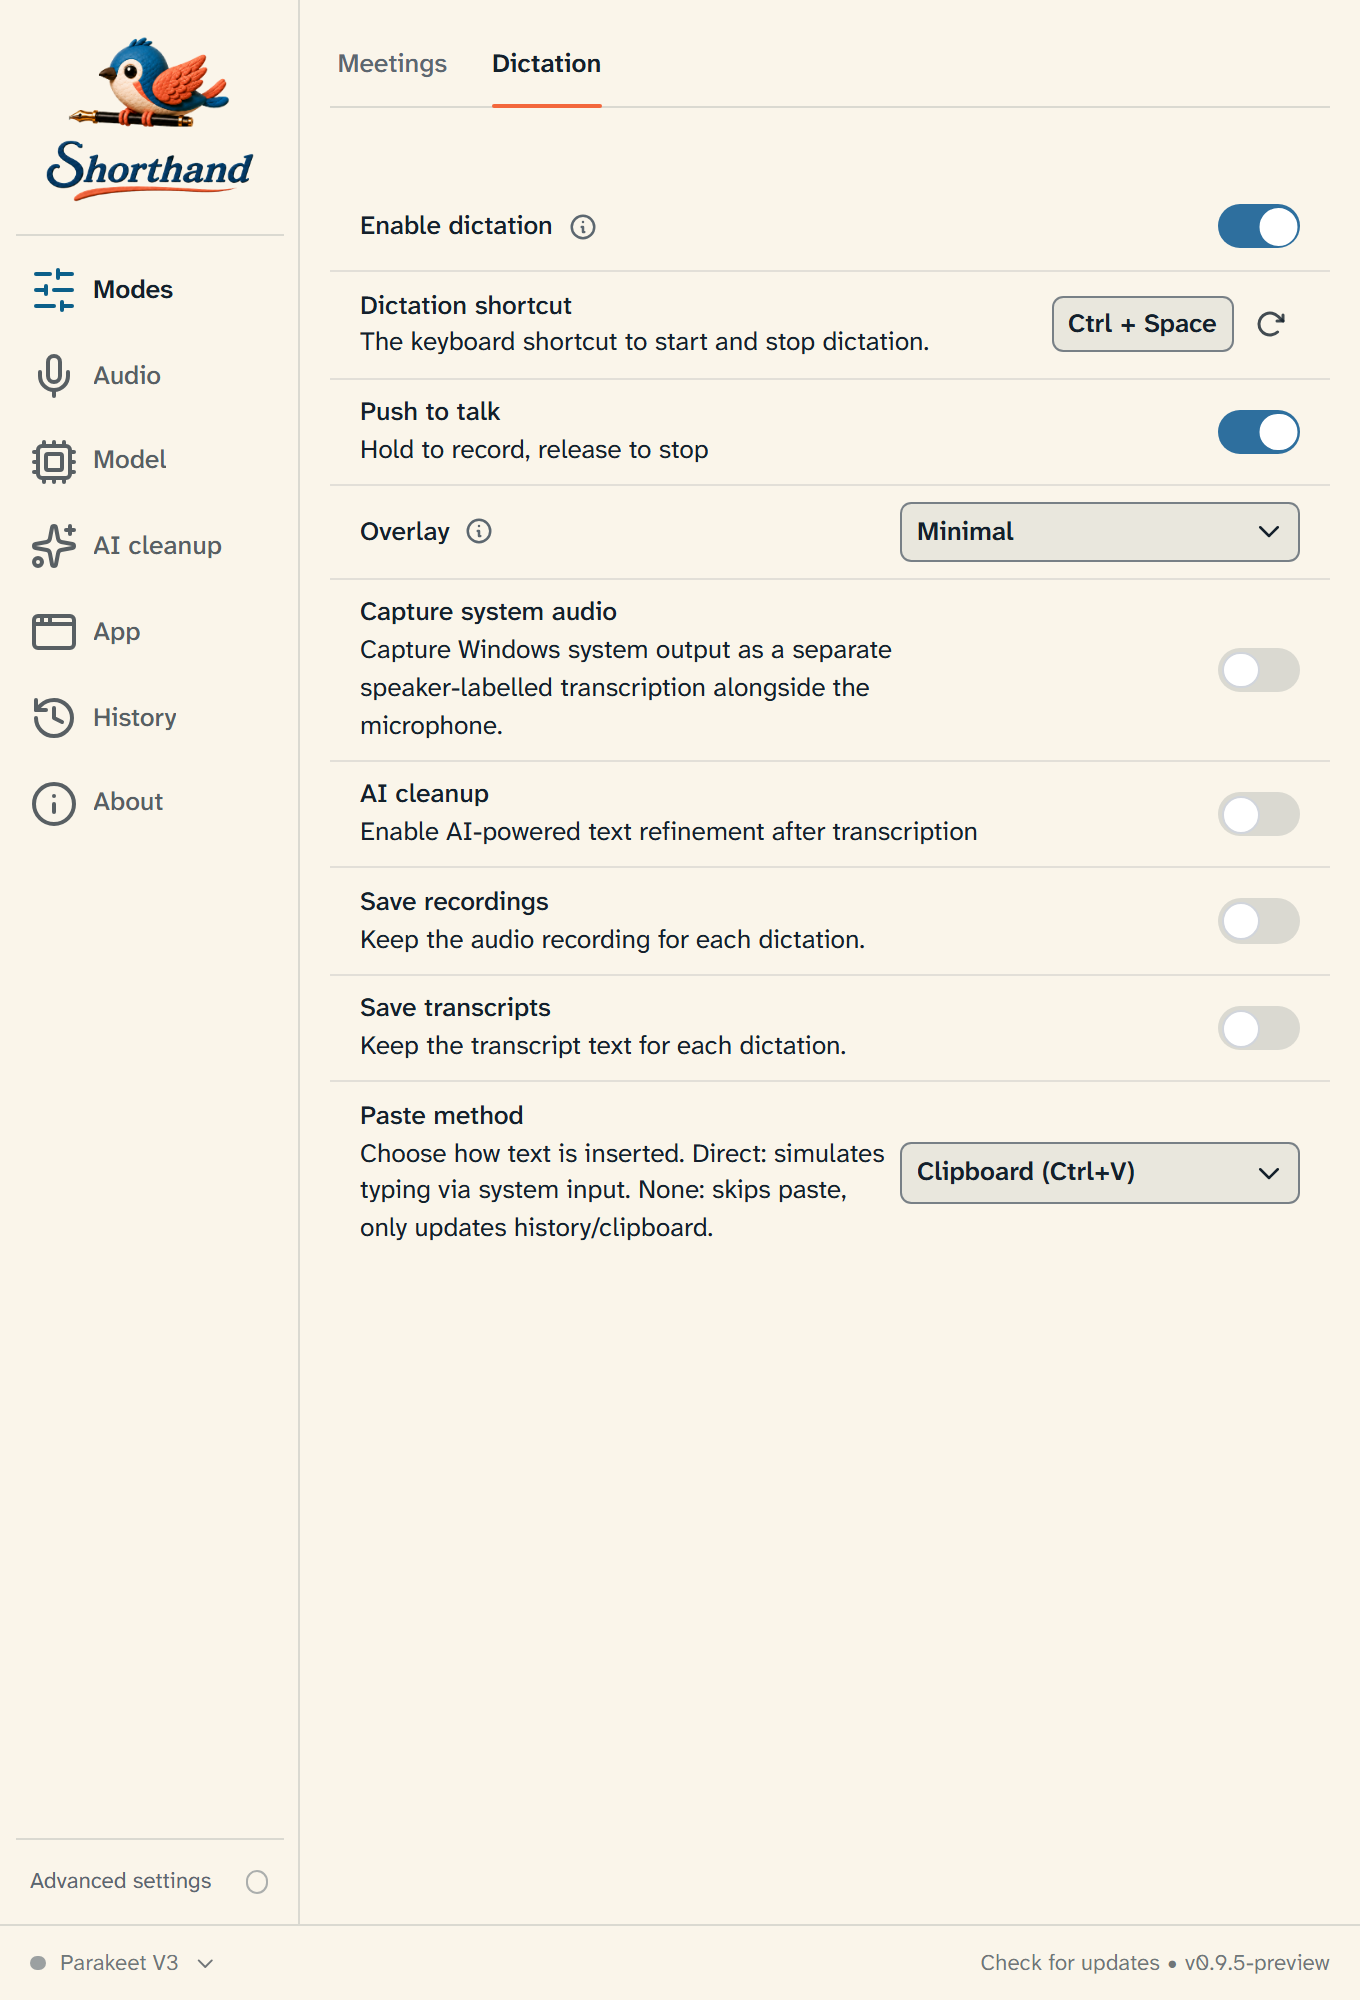
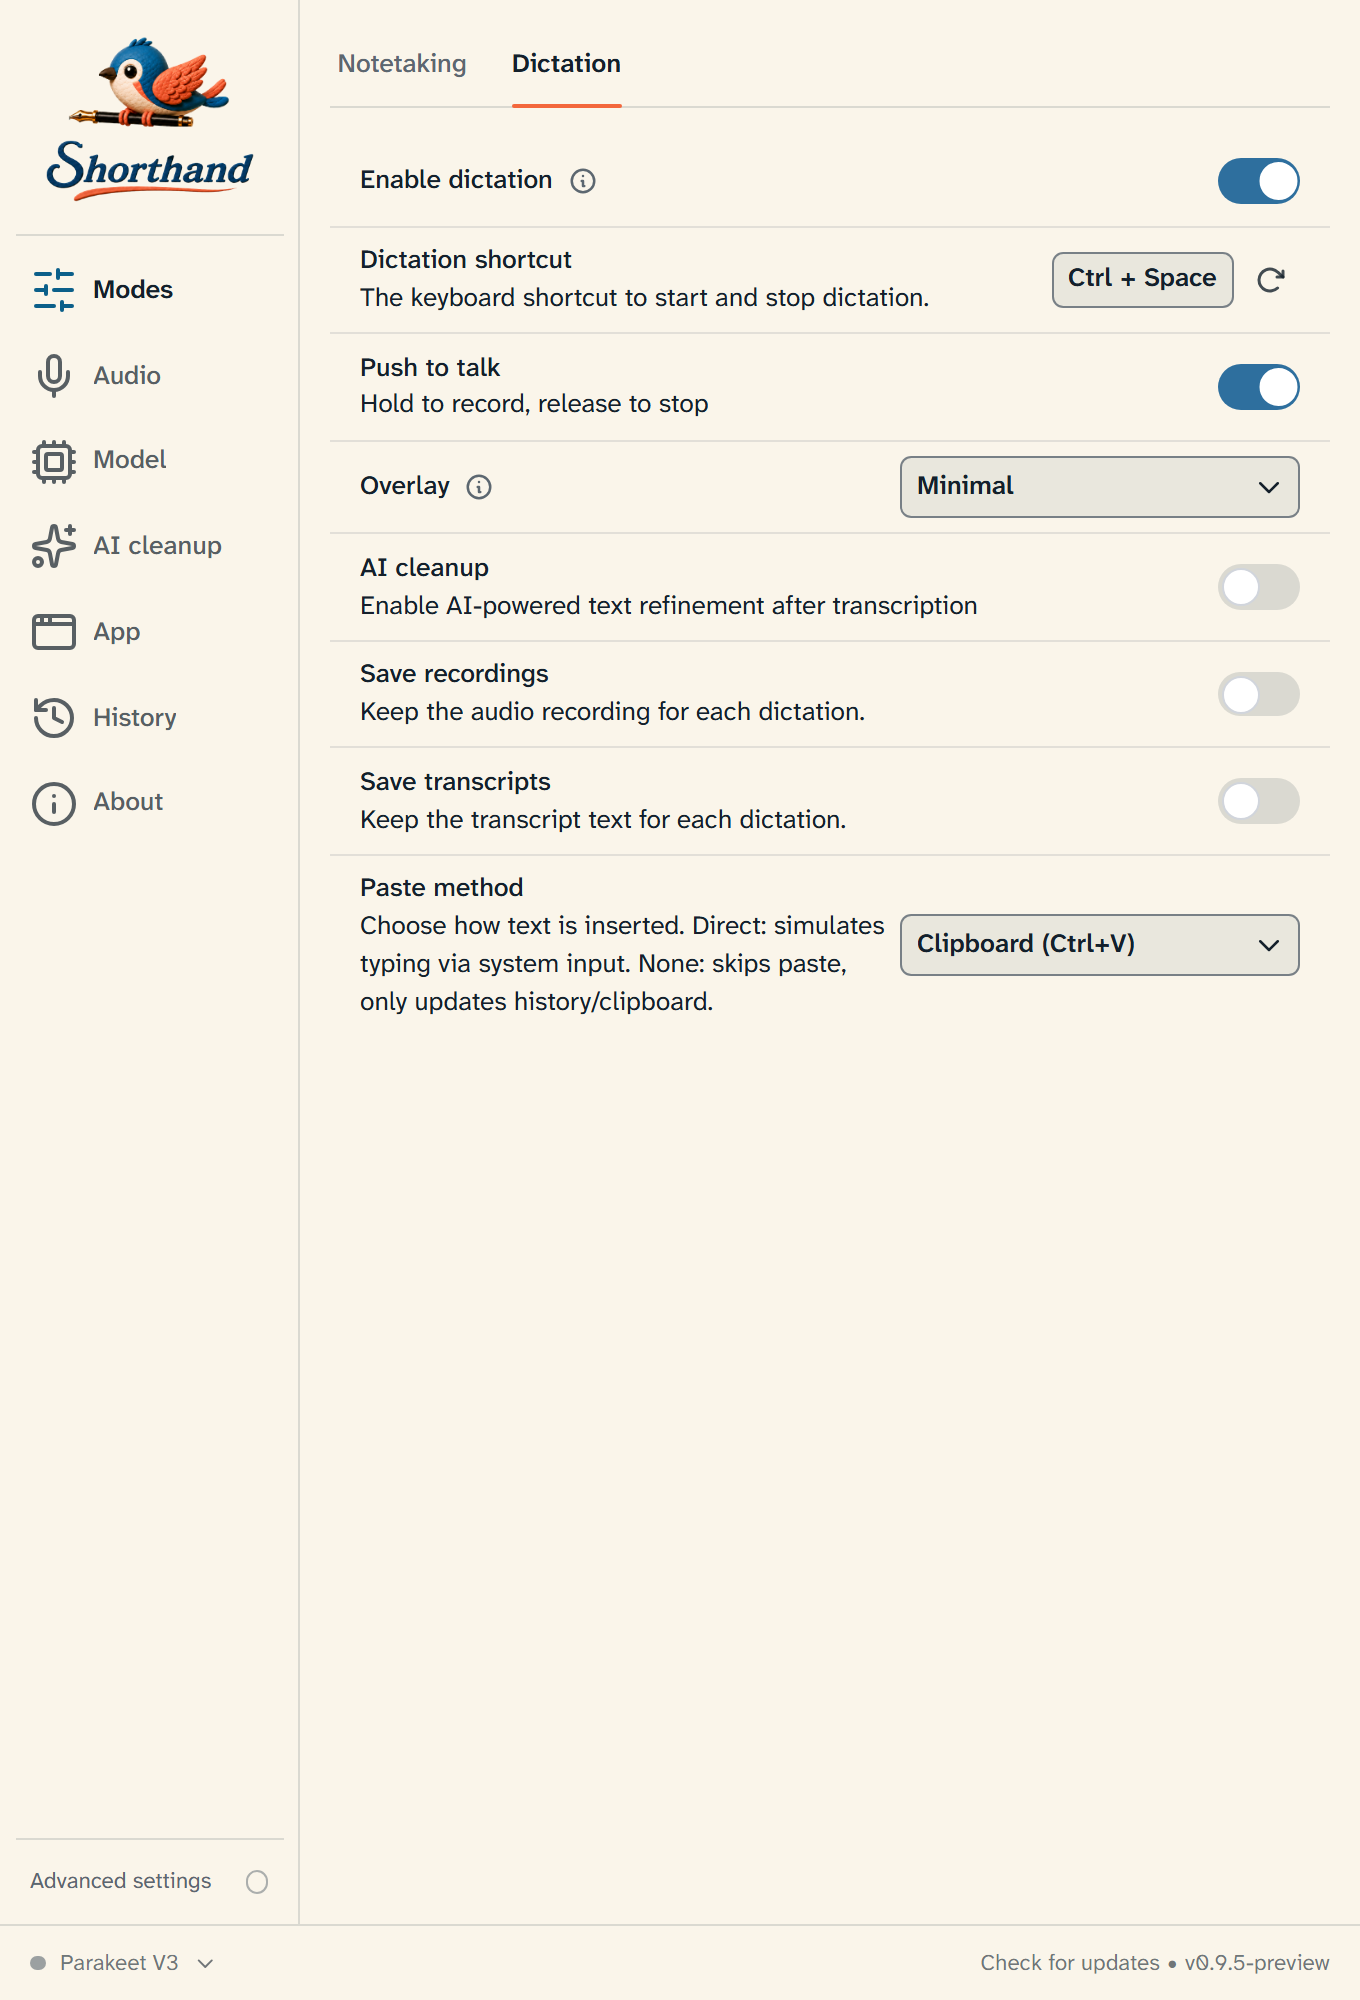
fix(settings): tell the two Modes tab levels apart, and cut the gap between them
Modes nests a second tablist (Meetings / Assisted notes) inside the
Notetaking panel of the first one, and drew both with the same component:
same size, same weight, same coral underline, same full-bleed hairline, one
directly beneath the other. Two controls that look identical and mean
different things is a defect however good each one looks alone.

The nested bar is now a segmented control — a filled track with the active
item raised out of it as a chip — rather than a smaller copy of its own
parent. Nesting an underline inside an underline asks the user to read a size
difference; a track and a chip cannot be mistaken for a row of underlined
tabs. It is deliberately not coral: brand/marks.css reserves that mark for
the active tab and nothing else, and putting it on both levels would have
restored the ambiguity by another route.

It is a `variant` on the existing Tabs rather than a new component or an
off-the-shelf one, so there stays exactly one WAI-ARIA keyboard
implementation to get right, and package.json stays mergeable against
upstream.

The whitespace had a single cause: `space-y-8` on the container. A TabPanel
is a *sibling* of its tab bar, not a child, so that 32px landed on top of the
panel's own pt-2 — the gap TabPanel's comment describes as 8px was 40px on
screen, and the Notetaking tab paid it twice, once above the nested bar and
once below. TabPanel now owns the whole gap at pt-4 and the one group that
[…]

diff --git a/src/shorthand/ui/Tabs.tsx b/src/shorthand/ui/Tabs.tsx
@@ -5,16 +5,24 @@ export interface TabSpec<T extends string> {
   label: string;
 }
 
+/**
+ * How the bar is drawn. The two variants are deliberately unlike each other,
+ * because they are used one inside the other — see the component doc below.
+ */
+export type TabsVariant = "underline" | "segmented";
+
 interface TabsProps<T extends string> {
   tabs: readonly TabSpec<T>[];
   active: T;
   onChange: (id: T) => void;
   /** Labels the tablist for screen readers. */
   label: string;
+  /** Defaults to `underline`, the top-level bar. */
+  variant?: TabsVariant;
 }
 
 /**
- * The Transcription/Dictation tab bar.
+ * The settings tab bar, in two variants.
  *
  * Implements the WAI-ARIA tabs pattern properly — roles, `aria-selected`,
  * `aria-controls`, roving `tabIndex`, and Left/Right/Home/End. Upstream's
@@ -22,13 +30,42 @@ interface TabsProps<T extends string> {
  * keyboard handler, and copying that here would have added a second
  * unreachable-by-keyboard navigation control rather than one.
  *
+ * Both variants share every one of those behaviours; they differ only in how
+ * they are painted. That is the point of a variant rather than a second
+ * component: there is one keyboard implementation to get right, not two.
+ *
+ * ## `underline` — the top-level bar
+ *
  * The active tab carries a plain coral underline (`sh-tab-indicator`, see
  * brand/marks.css). Coral keeps the same meaning as before — the tab you're
  * looking at is the live one — without the hand-drawn highlighter marquee that
  * previously drew it; that motif read as visual noise on a plain tab bar.
  *
- * The indicator is never the only signal. `aria-selected` carries the state
- * programmatically and the label goes semibold, so selection survives
+ * ## `segmented` — a bar nested inside a panel of the one above
+ *
+ * `ModesSettings` nests a second tablist inside the Notetaking panel. Drawn in
+ * the `underline` variant it was indistinguishable from its own parent: same
+ * size, same weight, same coral rule, same full-bleed hairline, one directly
+ * beneath the other. Two controls that look identical and mean different
+ * things is the defect this variant exists to fix.
+ *
+ * So the nested bar is a different *kind* of control rather than a smaller
+ * copy of the same one — the conventional segmented control: a filled track
+ * with the active item raised out of it as a chip. Nesting an underline inside
+ * an underline asks the user to read a size difference; a track and a chip
+ * cannot be mistaken for a row of underlined tabs at any size.
+ *
+ * It is deliberately not coral. brand/marks.css states the rule — one meaning,
+ * one motif; `.sh-tab-indicator` marks the active tab and nothing else — and
+ * putting the same mark on both levels would have restored the ambiguity by a
+ * different route. The chip is drawn in `--color-background`, so the active
+ * segment reads as the page showing through the track. That works in both
+ * themes without a second token: in light the chip is lighter than its track,
+ * in dark it is darker, and either way it is the surface the content below is
+ * already on.
+ *
+ * In neither variant is the paint the only signal. `aria-selected` carries the
+ * state programmatically and the label goes semibold, so selection survives
  * greyscale, a screen reader, and `prefers-reduced-motion`.
  */
 export function Tabs<T extends string>({
@@ -36,6 +73,7 @@ export function Tabs<T extends string>({
   active,
   onChange,
   label,
+  variant = "underline",
 }: TabsProps<T>) {
   const refs = useRef<Record<string, HTMLButtonElement | null>>({});
 
@@ -71,12 +109,69 @@ export function Tabs<T extends string>({
     }
   };
 
+  const segmented = variant === "segmented";
+
+  // `w-fit`, because the track has to hug its labels: stretched to the width of
+  // the pane the fill stops reading as a control and starts reading as a
+  // banner. It stays a block-level flex row rather than becoming `inline-flex`,
+  // so it does not pick up the inline formatting context's baseline alignment
+  // and whitespace.
+  //
+  // The track's `/10` is load-bearing for contrast, not taste. The inactive
+  // labels are `--color-mid-gray` sitting *on* this fill, and mid-gray on the
+  // page clears AA at 5.33:1 with little to spare; at `/10` the labels are
+  // still at 4.74:1, and around `/12` they fall through 4.5:1. Darken the track
+  // and you have to stop using mid-gray for the labels.
+  const tablistClass = segmented
+    ? "flex w-fit items-center gap-1 rounded-lg bg-mid-gray/10 p-1"
+    : "flex items-center gap-6 border-b border-mid-gray/20 px-1";
+
+  // Focus is the one place the two variants must not diverge: same ring, same
+  // offset, same token, so a keyboard user is not asked to learn two controls.
+  const focusRing =
+    "focus-visible:outline-2 focus-visible:outline-offset-2 focus-visible:outline-logo-primary";
+
+  const itemClass = (selected: boolean) => {
+    if (!segmented) {
+      return `relative cursor-pointer bg-transparent border-0 pb-3 pt-2 text-sm transition-colors ${focusRing} ${
+        selected ? "font-semibold" : "font-medium text-mid-gray hover:text-text"
+      }`;
+    }
+    // `ring` and not `border`: a border on the selected chip only would shift
+    // every label by a pixel as the selection moves, which is visible as a
+    // twitch when you arrow along the bar.
+    //
+    // The ring is the whole state indicator, and it is drawn at `/80` rather
+    // than the hairline this started as because of WCAG 1.4.11. The chip's
+    // *fill* cannot carry the job: it is `--color-background`, and its own
+    // track is that same colour plus 10% mid-gray, so chip against track is
+    // about 1.1:1 in light and 1.2:1 in dark — the faintest edge on the pane
+    // doing the most important thing on it. At `/80` the ring measures 3.2:1
+    // against the track in light and 5.2:1 in dark, clearing the 3:1 that
+    // non-text contrast asks for. The semibold label and `aria-selected` are
+    // still there, but a weight change is not accepted as a substitute for a
+    // visible boundary, and a user scanning rather than reading gets nothing
+    // from either.
+    //
+    // No drop shadow. One was tried, and it was wrong twice over: `box-shadow`
+    // is not covered by `transition-colors`, so the chip's edge snapped while
+    // its fill cross-faded, and in dark the chip is *recessed* relative to its
+    // track — a shadow under a surface that sits below its surroundings paints
+    // a lift that is not there. It would also have been the only `shadow-sm`
+    // in the app.
+    return `cursor-pointer border-0 rounded-md px-3 py-1 text-sm transition-colors ${focusRing} ${
+      selected
+        ? "bg-background text-text font-semibold ring-1 ring-mid-gray/80"
+        : "bg-transparent font-medium text-mid-gray hover:text-text"
+    }`;
+  };
+
   return (
     <div
       role="tablist"
       aria-label={label}
       onKeyDown={onKeyDown}
-      className="flex items-center gap-6 border-b border-mid-gray/20 px-1"
+      className={tablistClass}
     >
       {tabs.map((tab) => {
         const selected = tab.id === active;
@@ -89,17 +184,18 @@ export function Tabs<T extends string>({
             role="tab"
             id={`tab-${tab.id}`}
             aria-selected={selected}
-            aria-controls={`tabpanel-${tab.id}`}
+            // Only while the panel is actually in the DOM. Panels here are
+            // conditionally mounted, so an unconditional `aria-controls` on
+            // every tab names an id that does not exist — which axe reports as
+            // a violation, and which the nesting doubles: two tablists means
+            // two dangling references at all times rather than one.
+            aria-controls={selected ? `tabpanel-${tab.id}` : undefined}
             tabIndex={selected ? 0 : -1}
             onClick={() => onChange(tab.id)}
-            className={`relative cursor-pointer bg-transparent border-0 pb-3 pt-2 text-sm transition-colors focus-visible:outline-2 focus-visible:outline-offset-2 focus-visible:outline-logo-primary ${
-              selected
-                ? "font-semibold"
-                : "font-medium text-mid-gray hover:text-text"
-            }`}
+            className={itemClass(selected)}
           >
             {tab.label}
-            {selected && (
+            {selected && !segmented && (
               <span className="sh-tab-indicator" aria-hidden="true" />
             )}
           </button>
@@ -120,11 +216,22 @@ export const TabPanel: React.FC<TabPanelProps> = ({ id, children }) => (
     id={`tabpanel-${id}`}
     aria-labelledby={`tab-${id}`}
     tabIndex={0}
-    // pt-2, not pt-6. At the shipping window size the gap between the tab bar
-    // and the first row was 53px of a 532px pane — 10% of the visible screen
-    // doing nothing, directly beneath the one control a user has to notice to
-    // understand what they are looking at.
-    className="space-y-8 pt-2 focus-visible:outline-none"
+    // pt-4, not pt-6 — and not the pt-2 this used to carry either. The 2 was
+    // the right instinct answering the wrong measurement: at the shipping
+    // window size the gap between the tab bar and the first row was 53px of a
+    // 532px pane, 10% of the visible screen doing nothing directly beneath the
+    // one control a user has to notice to understand what they are looking at.
+    // But the panel is a *sibling* of its tab bar, so a `space-y` on whatever
+    // holds the two was landing on this element as well and the 8px never
+    // existed on screen. With that gone this is the whole gap, and 8px sat a
+    // tabbed panel's content hard against the bar that switches it.
+    //
+    // No `space-y` here on purpose. A panel that holds one group needs no
+    // internal rhythm, and the one panel that holds two children holds a
+    // nested tab bar and the panel it switches — which want to be adjacent,
+    // not separated by a gap meant for unrelated groups of settings. Panels
+    // that genuinely stack groups should say so themselves.
+    className="pt-4 focus-visible:outline-none"
   >
     {children}
   </div>

diff --git a/src/shorthand/settings/ModesSettings.tsx b/src/shorthand/settings/ModesSettings.tsx
@@ -162,7 +162,15 @@ export const ModesSettings: React.FC = () => {
   ];
 
   return (
-    <div className="max-w-3xl w-full mx-auto space-y-8">
+    // No `space-y-8` here. It used to sit on this element, and because a
+    // TabPanel is a *sibling* of the tab bar rather than a child of it, that
+    // 32px landed on top of the TabPanel's own deliberate gap — so the spacing
+    // TabPanel's comment describes as 8px was really 40px on screen. On the
+    // Notetaking tab it was then paid a second time, under the nested bar: 40px
+    // of nothing above that bar and another 40 below it, for a control the
+    // whole pane is read through. The one group that genuinely wants that
+    // separation asks for it itself, below.
+    <div className="max-w-3xl w-full mx-auto">
       <Tabs
         tabs={modeTabs}
         active={activeTab}
@@ -173,6 +181,7 @@ export const ModesSettings: React.FC = () => {
       {activeTab === "notetaking" && (
         <TabPanel id="notetaking">
           <Tabs
+            variant="segmented"
             tabs={notetakingTabs}
             active={notetakingTab}
             onChange={setNotetakingTab}
@@ -504,16 +513,21 @@ export const ModesSettings: React.FC = () => {
           promising a setting with nothing beneath them, which is worse than
           saying nothing. */}
       {advanced && !isLinux && !anyPushToTalk && (
-        <Sheet
-          title={t("settings.modes.shared.title")}
-          description={t("settings.modes.shared.description")}
-        >
-          <ShortcutInput
-            shortcutId="cancel"
-            descriptionMode="tooltip"
-            grouped={true}
-          />
-        </Sheet>
+        // This group really is a peer of the whole tabbed block above, so it
+        // asks for the full separation the container used to hand out
+        // indiscriminately.
+        <div className="pt-8">
+          <Sheet
+            title={t("settings.modes.shared.title")}
+            description={t("settings.modes.shared.description")}
+          >
+            <ShortcutInput
+              shortcutId="cancel"
+              descriptionMode="tooltip"
+              grouped={true}
+            />
+          </Sheet>
+        </div>
       )}
     </div>
   );
